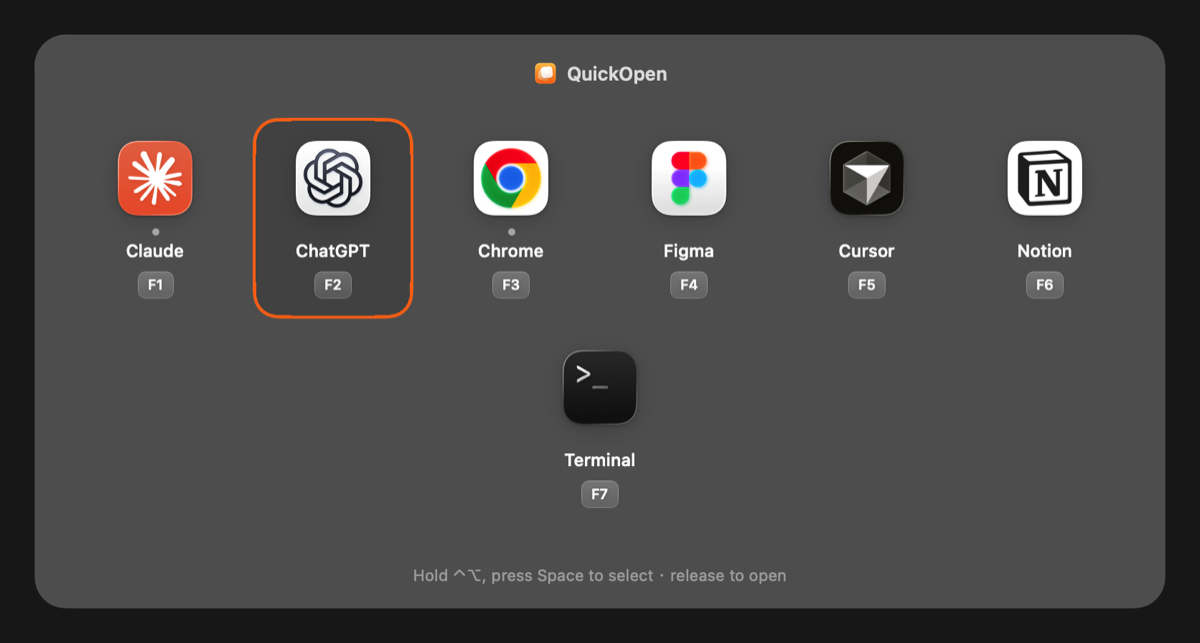
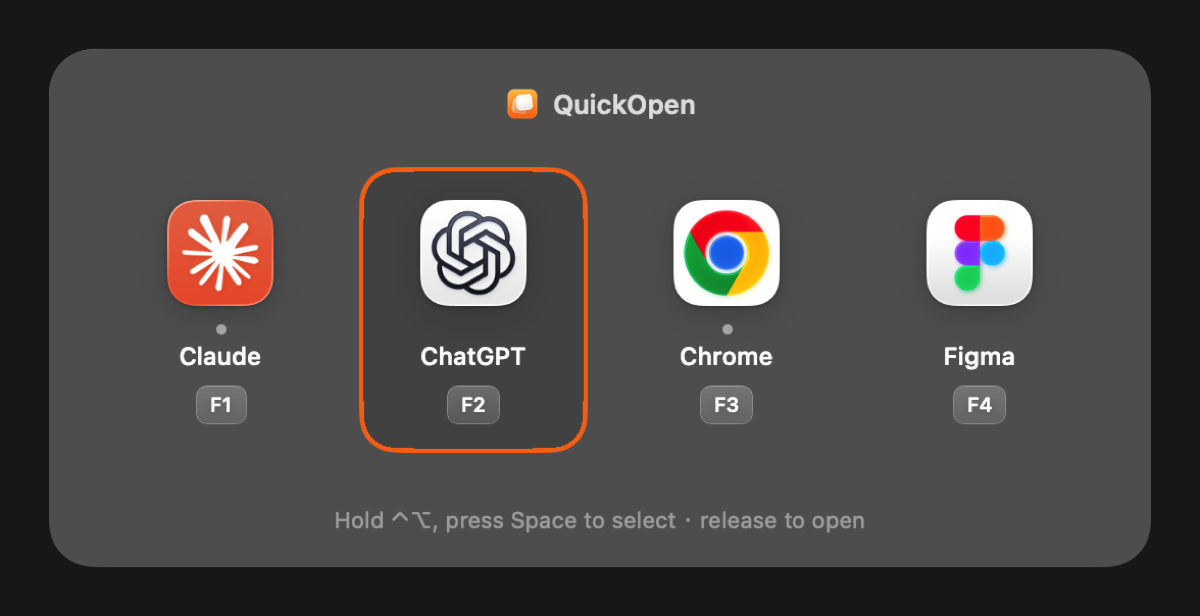
README: overview screenshot shows only F1–F4 apps

diff --git a/Tests/QuickOpenTests/SnapshotTests.swift b/Tests/QuickOpenTests/SnapshotTests.swift
@@ -142,7 +142,8 @@ final class SnapshotTests: XCTestCase {
             // 速查面板（深色），选中 ChatGPT
             let overview = OverviewPanelController()
             overview.isRunning = { $0.appName == "Claude" || $0.appName == "Chrome" }
-            overview.show(shortcuts: samples, mode: .hold, triggerHotKey: .defaultOverview)
+            // README 首图只保留 F1–F4 四个 App
+            overview.show(shortcuts: Array(samples.prefix(4)), mode: .hold, triggerHotKey: .defaultOverview)
             overview.select(index: 1)
             try render(detach(overview.panel, size: overview.panel.frame.size, darkTint: true),
                        appearance: .darkAqua, background: NSColor(white: 0.12, alpha: 1), name: "overview-\(suffix)")
